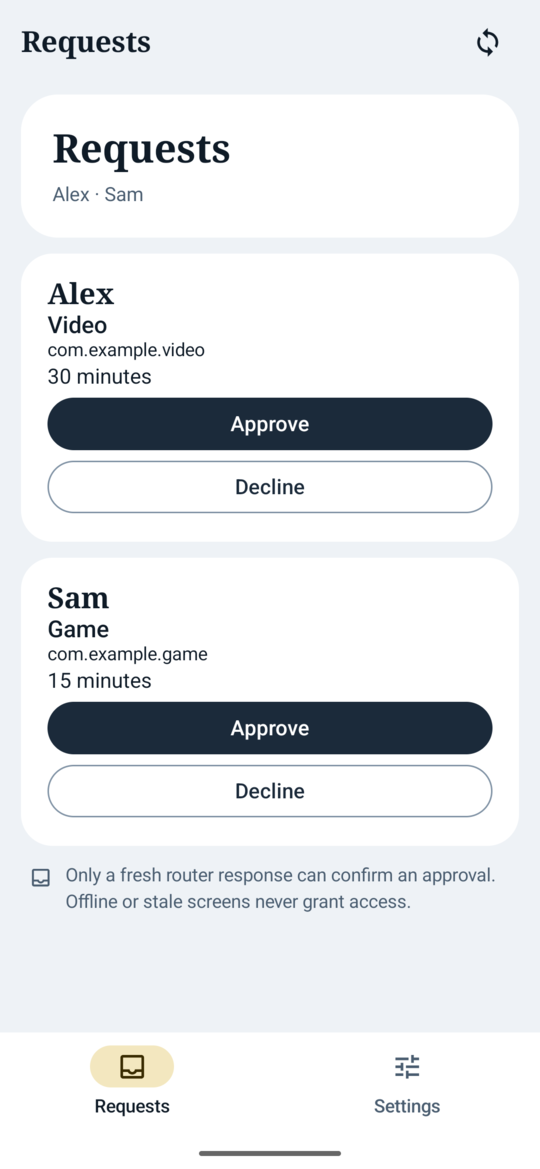
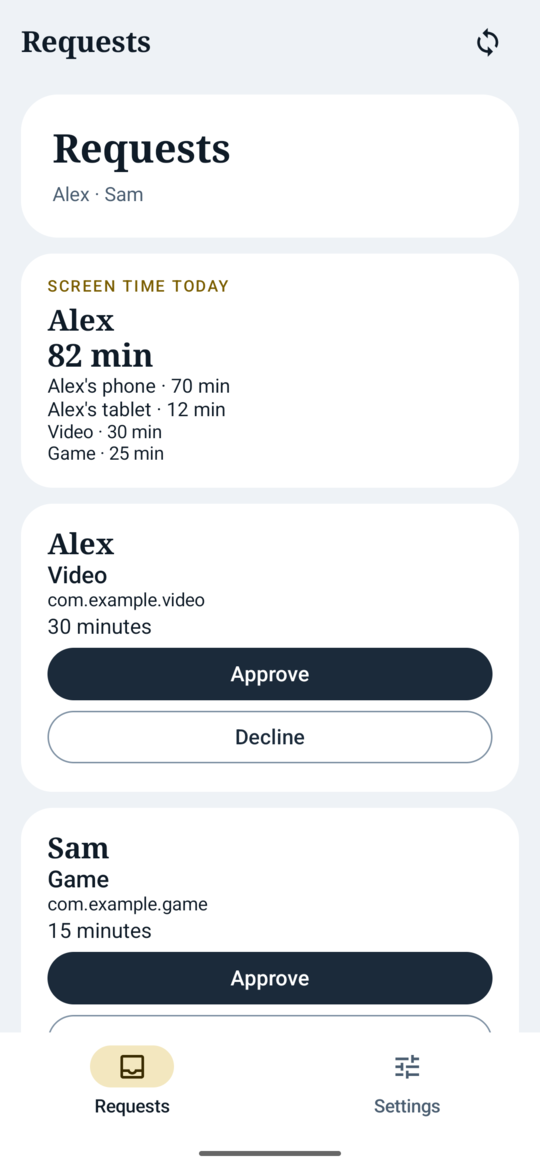
Validate usage reports and Requests page; README screenshots of the Requests page

Changed region(s): [[0.0593, 0.2156, 0.9185, 0.8623], [0.3259, 0.2156, 0.4148, 0.2464], [0.237, 0.2156, 0.2963, 0.2464]]

diff --git a/android/app/src/main/java/io/github/denogio/familywarden/ui/RequestsContent.kt b/android/app/src/main/java/io/github/denogio/familywarden/ui/RequestsContent.kt
@@ -65,7 +65,7 @@ fun RequestsContent(state: FamilyWardenState, actions: FamilyWardenActions) {
                 Text(stringResource(R.string.fw_request_subject, d.name, pluralStringResource(R.plurals.fw_time_minutes, m, m)),
                     style = MaterialTheme.typography.bodyMedium)
             }
-            for (a in u.apps) {
+            for (a in u.apps.filter { it.seconds >= 60 }) {
                 val m = a.seconds / 60
                 Text(stringResource(R.string.fw_request_subject, a.label.ifEmpty { a.pkg }, pluralStringResource(R.plurals.fw_time_minutes, m, m)),
                     style = MaterialTheme.typography.bodySmall)

diff --git a/test/android/request_flow.py b/test/android/request_flow.py
@@ -106,7 +106,7 @@ def minutes(value):
     adb('shell', 'input', 'keyevent', 'KEYCODE_MOVE_END')
     adb('shell', 'input', 'keyevent', '67', '67', '67', '67')
     adb('shell', 'input', 'text', str(value))
-    adb('shell', 'input', 'keyevent', 'KEYCODE_BACK')
+    # No BACK key: without a visible keyboard it would dismiss the dialog itself.
     time.sleep(1)
 
 
@@ -233,6 +233,14 @@ touch /tmp/drop-next-app-response
     time.sleep(2)
     assert suspended() and spent(grant_id) == 60_000
     print('PASS repeated delivery cannot refill consumed minutes', flush=True)
+    def reported():
+        sync()
+        report = call('usage')
+        alex = next((x for x in report['profiles'] if x['id'] == 'alex'), None)
+        used = next((r.get('used') for r in call('requests')['requests'] if r['request_id'] == request['request_id']), None)
+        return alex and alex['total'] >= 60 and used is not None and used >= 59 and alex
+    alex_usage = wait('signed usage report reaches the router with grant use', reported, 150)
+    assert any(a['package'] == FIXTURE for a in alex_usage['apps']), alex_usage
     home()
     ui('native-child-exhausted')
     assert call('device_allow_removal', {'device': device_id})['status'] == 'ok'
@@ -257,6 +265,7 @@ touch /tmp/drop-next-app-response
     synthetic_request('request-native-parent-001')
     sync()
     wait('parent receives the scoped request', lambda: bool(nodes('Approve')))
+    wait('parent sees the child\'s screen time today', lambda: bool(nodes('Screen time today')))
     ui('native-parent-pending')
     tap('Approve')
     minutes(15)

diff --git a/plans/app-control-todo.md b/plans/app-control-todo.md
@@ -373,7 +373,8 @@ Evidence: 185 JVM tests; `scripts/test-requests-emulator.sh` (Android 15 + OpenW
       (One open request per child; storage bounds; no product rate limit, per A15.)
 - [x] Test wrong child/parent/day/app, replay, tampering, restart and grant exhaustion.
 - [ ] Physical-device run (Pixel test phone only, never a child's daily phone).
-- [ ] Authenticated consumption upload and shared multi-phone allocation (P6/P7 follow-up).
+- [x] Authenticated usage and grant-consumption upload (protocol §5, 2026-10-25).
+- [ ] Shared multi-phone allocation and router-side budgets (P6/P7 follow-up).
 
 **Accept:** child exhausts an app, requests extra time, parent approves, only the approved
 minutes become usable, and the standing rule remains unchanged.
@@ -408,6 +409,9 @@ pending. Details and deliberate design deviations: `docs/design/family-views/UI-
       summaries and connection/applied-policy status.
 - [ ] Child Android: remaining budgets, blocked reasons, request status and usage visibility.
 - [ ] LuCI: configure rules/roles, view usage and requests, inspect capability/failure states.
+      (2026-10-25: Requests page = first shared administrator UI module (A20): answer
+      requests, see today per phone/app, 7-day totals, reported grant use. Parent Android
+      shows "Screen time today" per scoped child.)
 - [ ] Include new-app approval, essential-app warnings and removal/revocation workflows.
 - [ ] Add all English/Danish Android strings/plurals, accessibility labels, large-text,
       dark/light themes and sanitized previews/screenshots.

diff --git a/README.md b/README.md
@@ -18,7 +18,8 @@ English and Danish. Status and open items: [plans/android-implementation.md](pla
 In development (not released yet): screen time and app limits in the style of Google
 Family Link, and **extra-time requests** — a child asks for more minutes, a parent approves
 or declines on their own phone (no Device Owner needed), and the approved minutes expire
-two hours after approval without changing the standing rules.
+two hours after approval without changing the standing rules. Phones report their screen time
+to the router, so parents see each child's day on their phone and in LuCI.
 
 <p>
 <img src="docs/screenshots/app-today.png" width="200" alt="Child's Today screen: 38 minutes of screen time left, per-app limits and always-allowed apps">
@@ -35,6 +36,9 @@ two hours after approval without changing the standing rules.
 <p>
 <img src="docs/screenshots/luci-profile-apps.png" width="405" alt="Profile editor: daily screen time for weekdays and weekends, always-allowed apps and allowed internet windows">
 <img src="docs/screenshots/luci-phones.png" width="405" alt="Phones page: a new phone waiting for fingerprint approval above the approved phones">
+</p>
+<p>
+<img src="docs/screenshots/luci-requests.png" width="820" alt="Requests page: pending extra-time requests from Sam and Alex with Approve and Decline, and today's screen time per child">
 </p>
 
 Screenshots use a fictional family and are regenerated with
